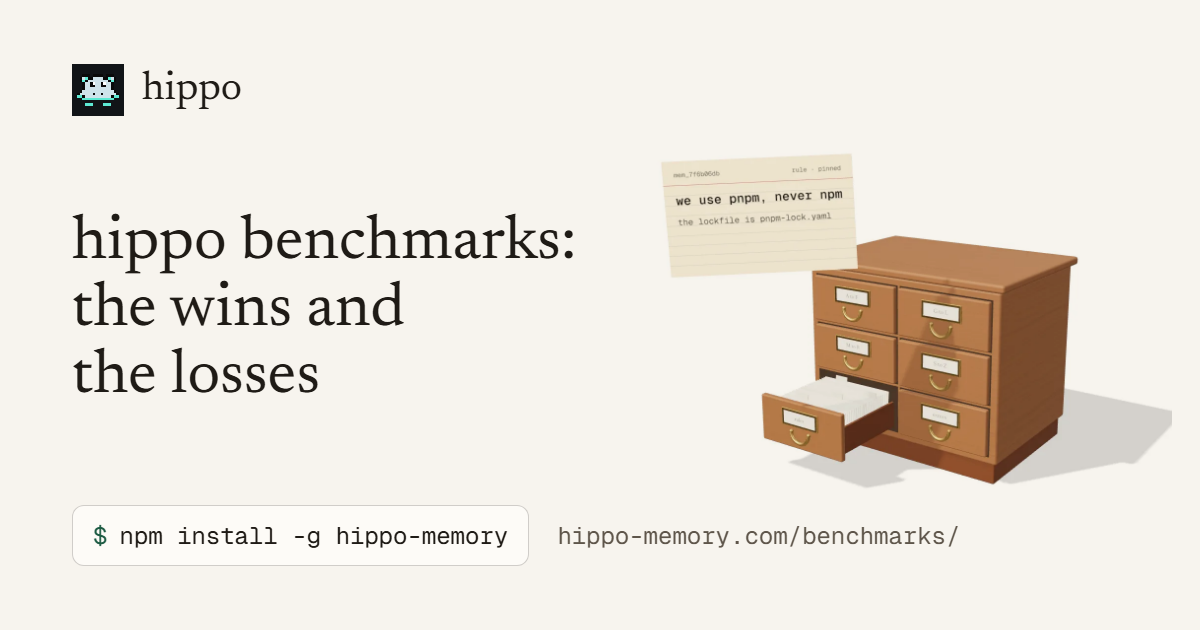
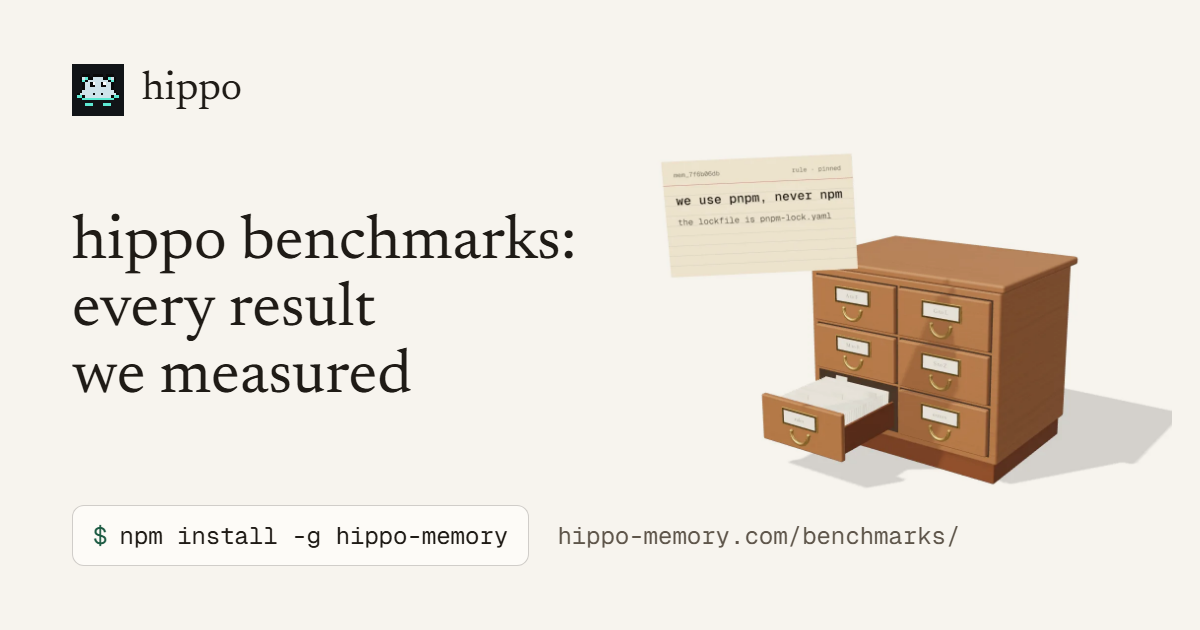
site: state results, not limits, across the site, README and llms.txt (#1302)
* site: lead with the result on the shared-memory and cursor pages

Keith asked that public pages state hippo's results and features, not
its limits. The shared-memory page now gives the 11 against 21 in 100
result from site.ts instead of the "Claude Code only" line, and both
pages drop the "MCP access alone doesn't capture a session" clause.
Text snapshots updated for these two pages only.

Claude-Session: https://claude.ai/code/session_01LisLYn64PyhRF63w8o9DKu

* site: state results, not limits, across the site, README and llms.txt

Keith asked that public copy lead with results and leave limits to the
result docs. Removes the capture-off, "Claude Code only", "can't yet
say", "where hippo lost", "hippo trails" and HaluMem board lines from
the home, benchmarks, claude-code, codex, vs pages, the FAQ (README),
llms.txt and the JSON-LD description on every page. The benchmarks
title and share card now read "every result we measured".

check-readme-sync.mjs used to require the capture-off caveat on the
home; it now fails if home, README or llms.txt carry a limit line.

Claude-Session: https://claude.ai/code/session_01LisLYn64PyhRF63w8o9DKu

---------

Changed region(s): [[0.0617, 0.5429, 0.3392, 0.6333], [0.0617, 0.4524, 0.3392, 0.5429]]

diff --git a/website/src/content/site.ts b/website/src/content/site.ts
@@ -19,7 +19,7 @@ export const site = {
   title: 'hippo: open-source memory for Claude Code, Codex and Cursor',
   // The default meta description and the JSON-LD description; package.json's line ships with npm releases.
   description:
-    'Open-source memory for coding agents. In our own Claude Code test on 29 repositories, adding hippo to built-in memory cut repeat mistakes from 21 in 100 to 11, and the gain held with lesson capture off.',
+    'Open-source memory for coding agents. In our own Claude Code test on 29 repositories, adding hippo to built-in memory cut repeat mistakes from 21 in 100 to 11, at the same cost.',
   tagline: {
     lead: 'Your corrections, remembered by',
     accent: 'Claude Code, Codex and Cursor',
@@ -103,7 +103,7 @@ export const session = {
 export const publicTests = {
   heading: 'On public question-answering tests',
   body: 'These tests ask questions about long conversations, a different job from stopping a repeated mistake, so we show them as supporting evidence. Within each test, every system we ran used the same answer model and the same scorer. Hippo ran with its optional local embedder, and on DMR with its local reranker too.',
-  linkLabel: 'Every result, and where hippo lost',
+  linkLabel: 'Every result we measured',
 } as const;
 
 // Markdown in each text, rendered with mdInline. Commands are shown as typed.

diff --git a/README.md b/README.md
@@ -87,7 +87,7 @@ Real sessions on 29 repositories, with the plan registered before the run.
 
 Cost with hippo: 1.006 times, the same.
 
-The gain was the same with lesson capture switched off, so this run cannot say hippo's stored lessons caused it. The test agent was Claude Code only, so there's no measured result for Codex or Cursor. The [result](docs/evals/2026-11-08-z0-round3-result.md) has every figure, and [Benchmarks](#benchmarks) has the rest of the test.
+The [result](docs/evals/2026-11-08-z0-round3-result.md) has every figure, and [Benchmarks](#benchmarks) has the rest of the test.
 
 ### Public memory tests
 
@@ -210,7 +210,7 @@ Each run corrects Claude Code once and then, 2 to 4 tasks later, gives it a task
 
 The chart counts first chances 2 to 4 tasks after the correction. The registered measure, the first chance in each mistake family over 148 units, gives 14.9 points fewer repeats with hippo [5.5, 24.3], at the same cost, a ratio of 1.006 [0.964, 1.049]. On tasks with no lesson to apply, neither the cost nor the share solved changed.
 
-What this run can't tell us is why. With lesson capture removed the result was the same, so we can't say hippo's lessons caused it. Round 4 tests that. The corrections were scripted, the agent was Claude Code only, and the test code and run records are not in the public repo. The round before was inconclusive, at 8.9 points fewer on 16 repositories.
+Round 4, already preregistered, tests which parts of hippo drive the gain.
 
 ### Official-setup rows side by side
 
@@ -255,8 +255,8 @@ Hippo 3.5.1 run with the same answer model, judge and settings as the published 
 - **EverMemBench, GPT-4.1-mini answers.** The answer model, prompts, top 10, multiple-choice scorer and the 9-category mean match the paper's Table 4 (EverMind-AI/EverMemBench e10b3d5): gpt-4.1-mini-2025-04-14 at temperature 0 answers all 2,400 items. One setting differs: open answers are judged by gpt-5.6-sol through codex with the authors' prompts, and the repository's default judge is gemini-3-flash-preview; the paper names no judge. A second judge, gpt-4o-2024-08-06 with the same prompts, agrees with codex on 96.9% of open verdicts and scores hippo 44.75. The default setup scores 41.66 with codex and 42.50 with gpt-4o.
 - **BEAM-100K, OmniMemEval shared setup.** Run as OmniMemEval's run_beam_eval.sh runs every backend (MemTensor/OmniMemEval ff13e4a5): the nugget score at the 100K scale, hippo's top 20 memories, gpt-4.1-mini-2025-04-14 answers and the gpt-4o-mini-2024-07-18 judge. The 5 smoke-test questions are never scored, so the score covers 395 of 400.
 - **BEAM-10M, OmniMemEval shared setup.** The same setup as the BEAM-100K row at the 10M scale (MemTensor/OmniMemEval ff13e4a5), on all 200 questions.
-- **HaluMem-Medium.** Question answering only, with the paper's GPT-4o answers and judge (gpt-4o-2024-08-06, temperature 0) and the same data, question set, top 20 and prompts. We do not produce the extraction and update scores, so we cannot enter the HaluMem board yet.
-- **HaluMem-Long.** Question answering only, with the paper's GPT-4o answers and judge (gpt-4o-2024-08-06, temperature 0), the same setup as the HaluMem-Medium row. hippo ran it with its embedder on 20 Nov 2026. We do not produce the extraction and update scores, so we cannot enter the HaluMem board yet.
+- **HaluMem-Medium.** Question answering only, with the paper's GPT-4o answers and judge (gpt-4o-2024-08-06, temperature 0) and the same data, question set, top 20 and prompts.
+- **HaluMem-Long.** Question answering only, with the paper's GPT-4o answers and judge (gpt-4o-2024-08-06, temperature 0), the same setup as the HaluMem-Medium row. hippo ran it with its embedder on 20 Nov 2026.
 - **IMLogic, Table 5.** Table 5 of arXiv 2606.23283: conversation-level multiple-choice accuracy with GPT-5.1 answers, top-30 retrieval and a GPT-4o-mini memory backbone for every method. hippo ran it with its embedder on 21 Nov 2026: gpt-5.1-2025-11-13 at temperature 0, the authors' prompt and option shuffle, and exact option matching. hippo makes no model call when it stores a memory, so it needs no memory backbone. 1 smoke-test item is never scored.
 - **MemFail, coexisting facts.** Run as MemFail's task scripts run it (MemFail 61ab3028): the same data and seed, top 5, a gpt-5-mini test-taker and each task's own gpt-5-mini judge, on all items. hippo ran it with its embedder on 22 Nov 2026, one run. The products run GPT-4.1-mini inside to write memories; hippo makes no model call when it stores a memory and keeps raw turns. The paper plots the product scores in Figure 1 and prints no table, so each product number is read from the figure's vector SVG, where every error bar equals the 95% Wilson interval of its count. The product numbers are read from the paper's Figure 1, which prints no table.
 - **MemFail, conditional.** Run as MemFail's task scripts run it (MemFail 61ab3028): the same data and seed, top 5, a gpt-5-mini test-taker and each task's own gpt-5-mini judge, on all items. hippo ran it with its embedder on 22 Nov 2026, one run. The products run GPT-4.1-mini inside to write memories; hippo makes no model call when it stores a memory and keeps raw turns. The paper plots the product scores in Figure 1 and prints no table, so each product number is read from the figure's vector SVG, where every error bar equals the 95% Wilson interval of its count. The product numbers are read from the paper's Figure 1, which prints no table.
@@ -1277,7 +1277,7 @@ Judge it by what is tested. 3,500+ tests run against a real database, with no mo
 
 ### Has hippo been shown to make agents better at their work?
 
-On repeat mistakes, yes, in [one test of our own](https://github.com/kitfunso/hippo-memory/blob/master/docs/evals/2026-11-08-z0-round3-result.md). We corrected Claude Code once on 29 repositories and counted repeats 2 to 4 tasks later, finding 11 in 100 with hippo added, against 21 with built-in memory alone, at the same cost. We can't yet say why, because the gain was the same with lesson capture switched off. Failed runs are in [docs/evals](https://github.com/kitfunso/hippo-memory/blob/master/docs/evals/README.md) too.
+On repeat mistakes, yes, in [one test of our own](https://github.com/kitfunso/hippo-memory/blob/master/docs/evals/2026-11-08-z0-round3-result.md). We corrected Claude Code once on 29 repositories and counted repeats 2 to 4 tasks later, finding 11 in 100 with hippo added, against 21 with built-in memory alone, at the same cost. Every run is in [docs/evals](https://github.com/kitfunso/hippo-memory/blob/master/docs/evals/README.md).
 
 ---
 
